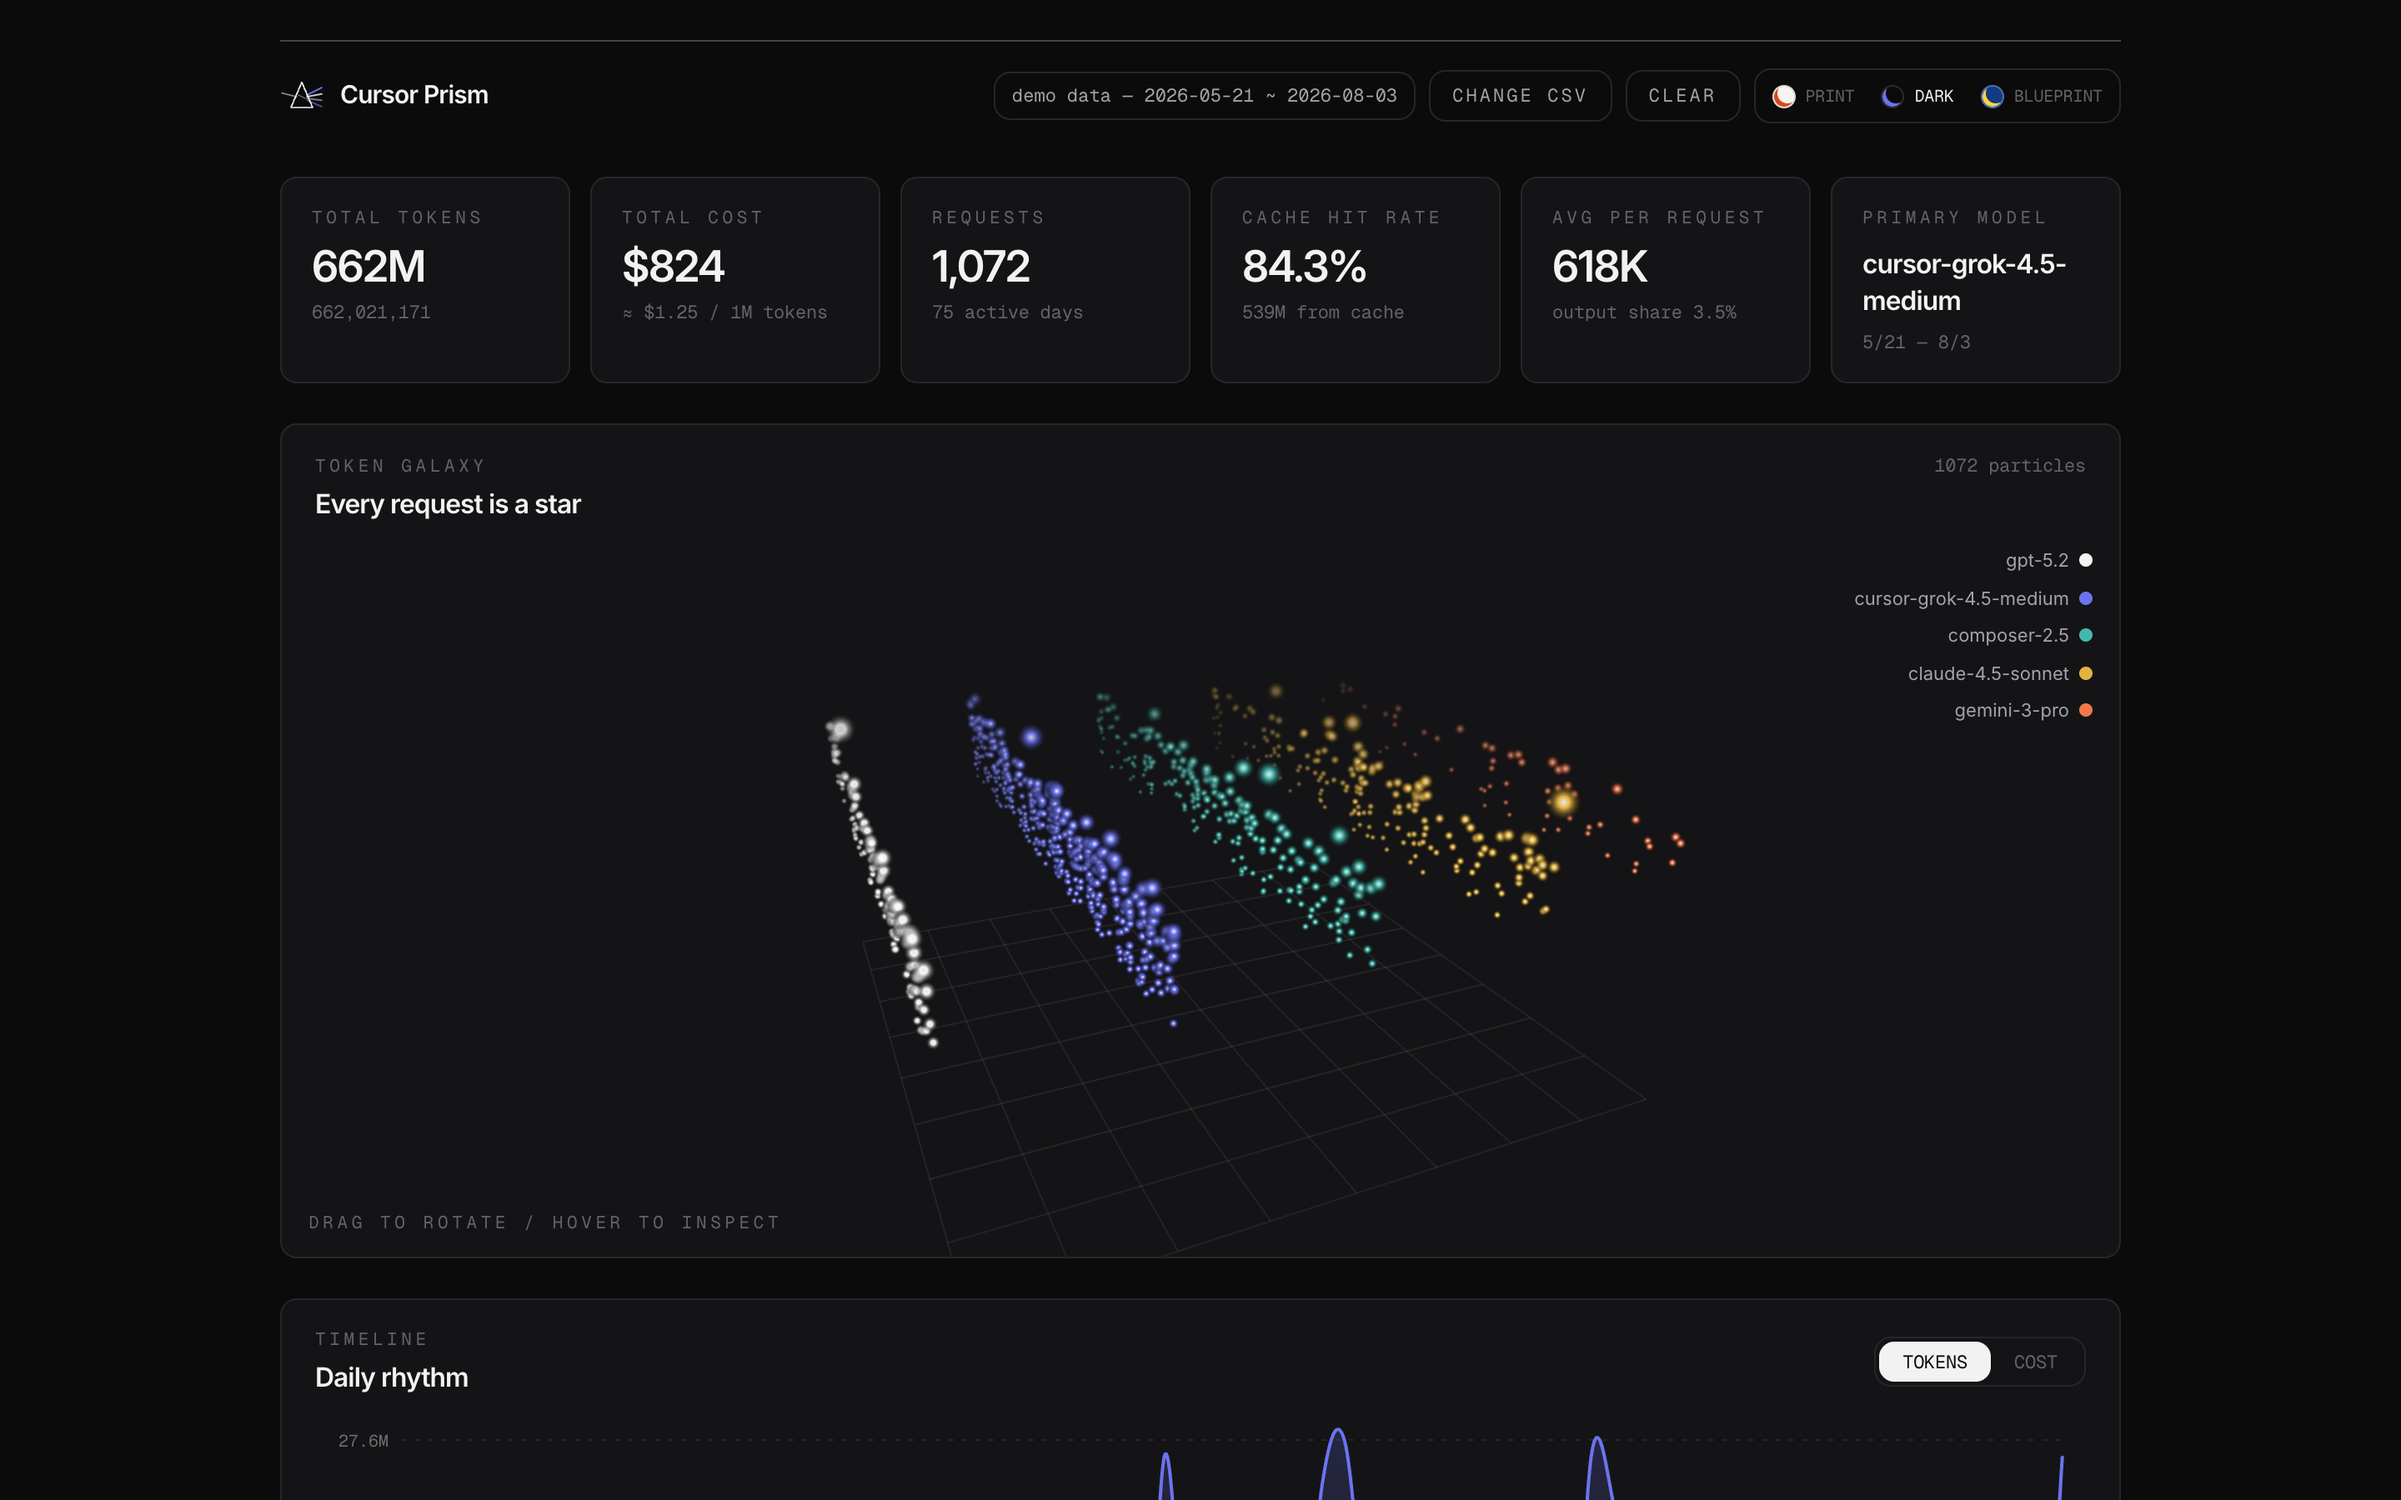
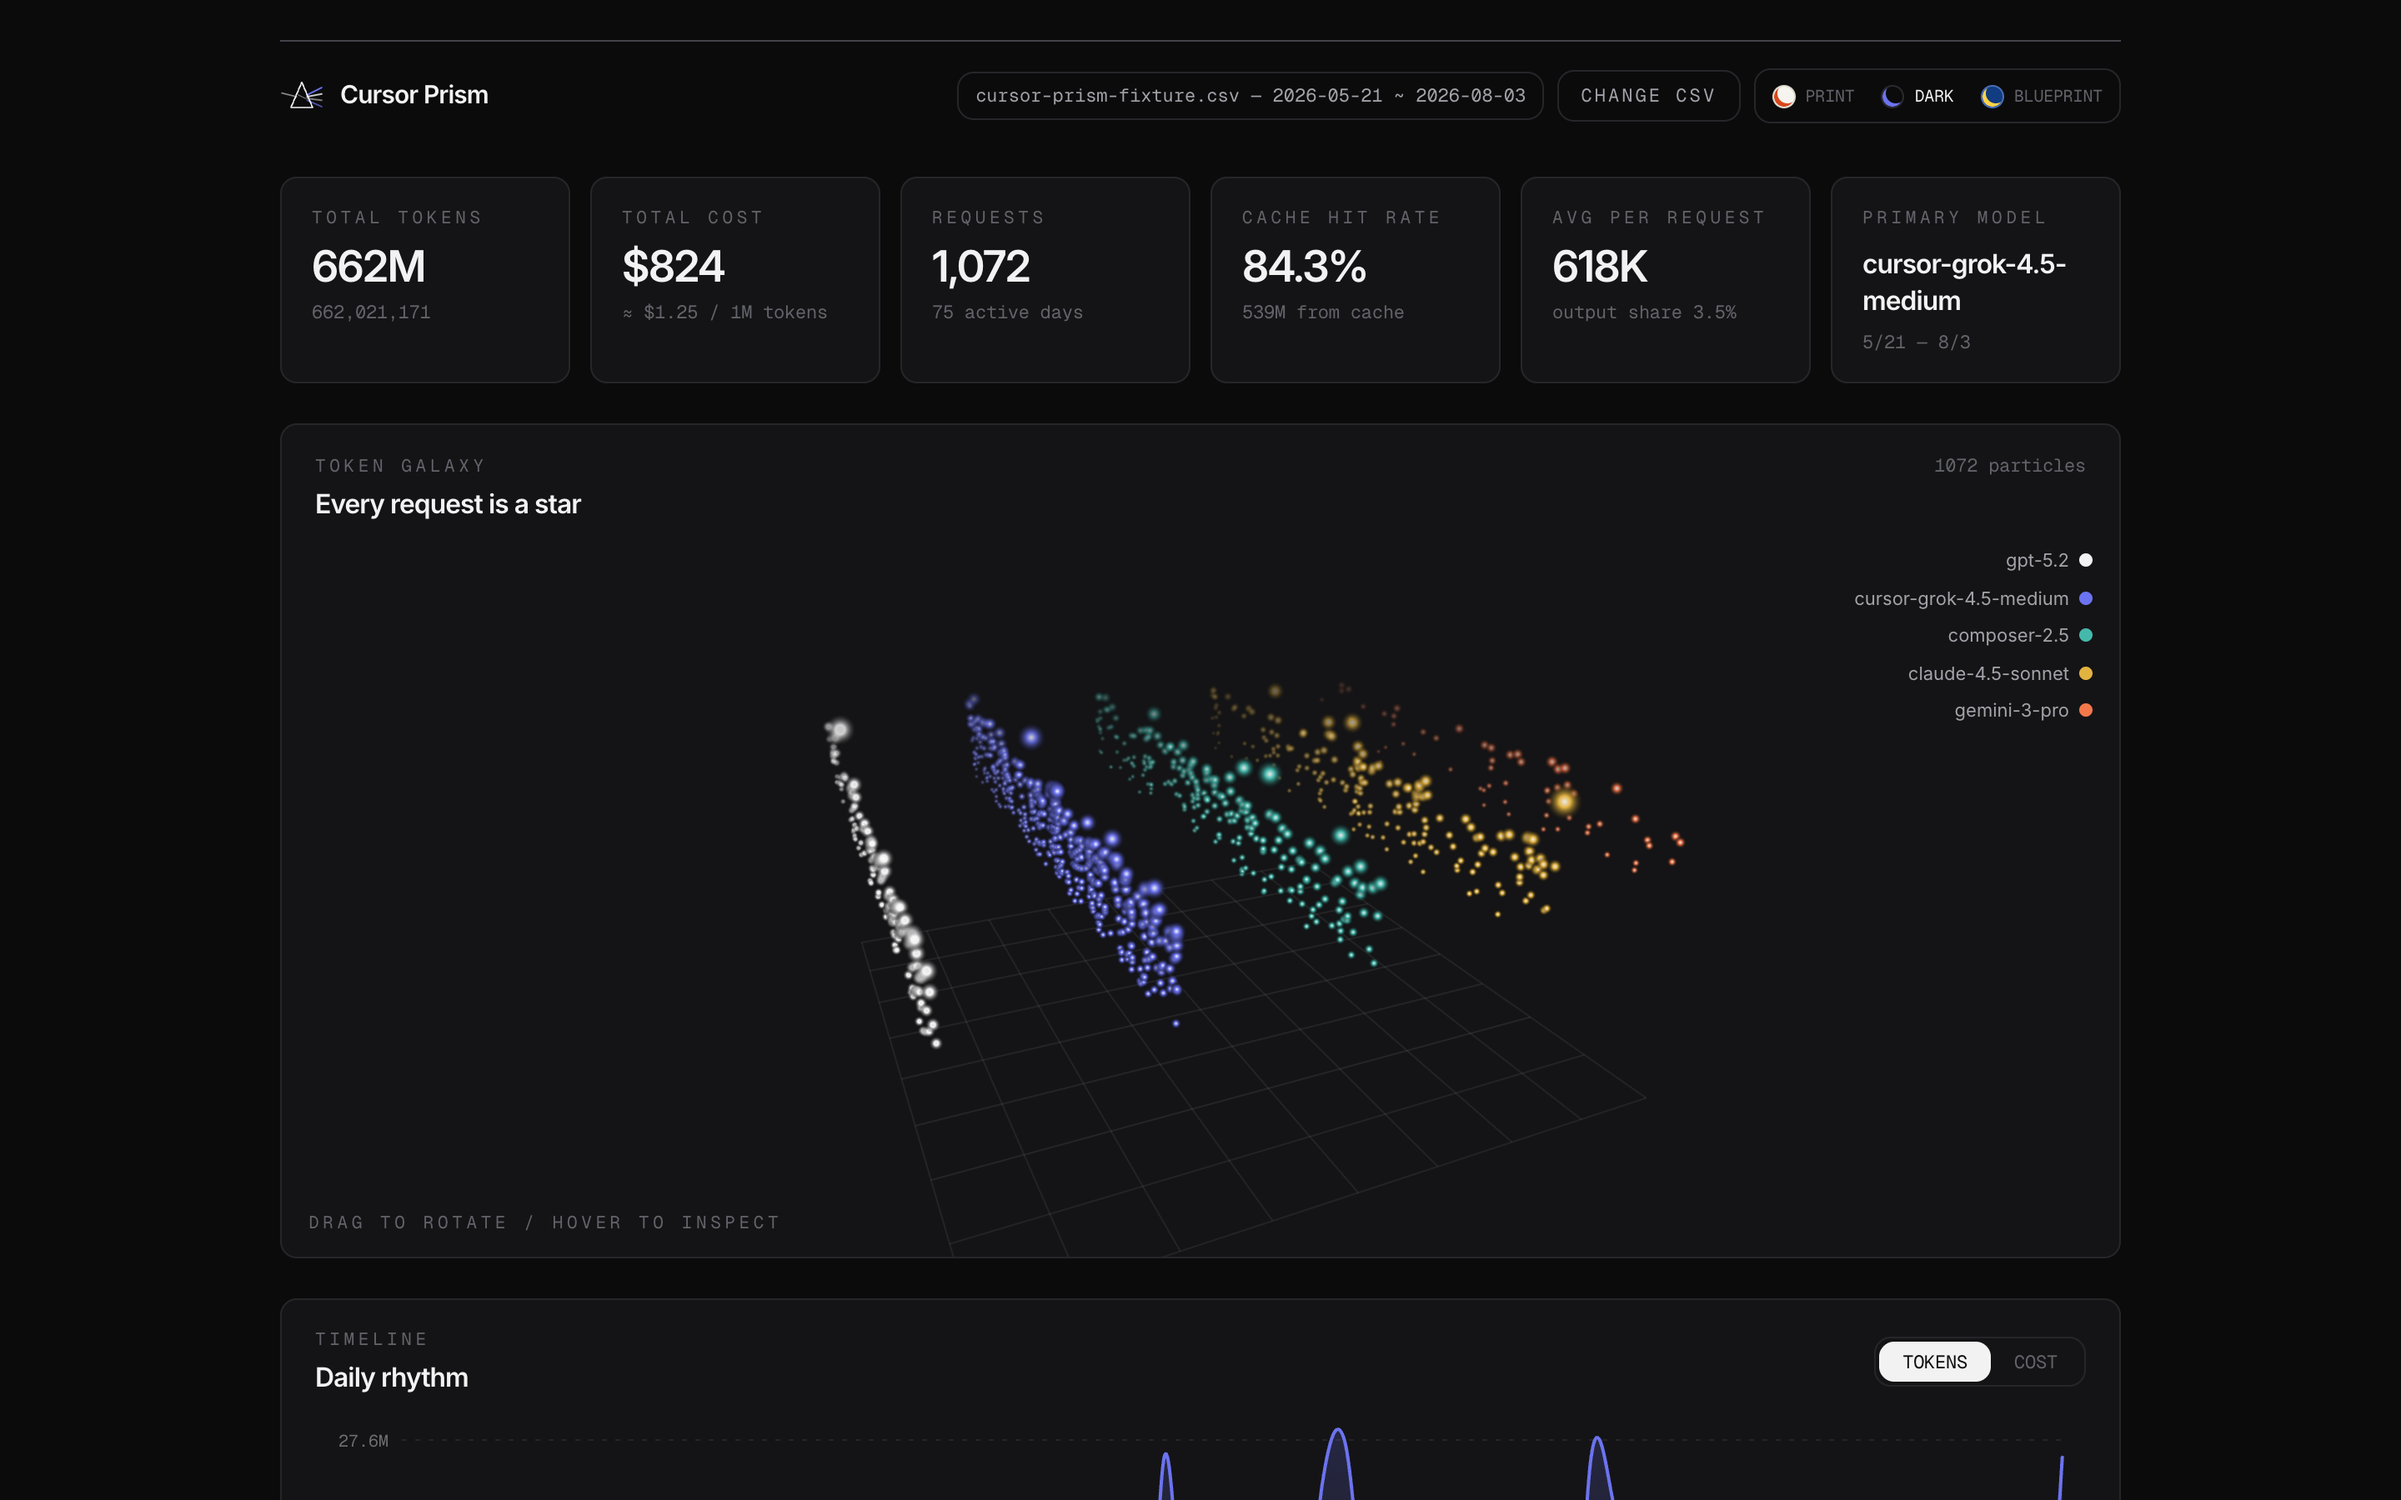
docs: sync README and screenshots with the in-memory model

diff --git a/README.md b/README.md
@@ -4,7 +4,7 @@
 
 The Cursor dashboard hands you a plain table. **Cursor Prism** turns your exported usage CSV into an observatory: trends, models, cache economics, activity heat, cost concentration — plus a 3D token galaxy you can grab and spin.
 
-**100% local parsing** — your CSV never leaves the browser (`FileReader` + `sessionStorage`). Nothing is uploaded, tracked, or stored server-side. There is no server side.
+**100% local parsing** — your CSV never leaves the browser (`FileReader`, in-memory only). Nothing is uploaded, tracked, persisted, or stored server-side. There is no server side.
 
 ![Cursor Prism dashboard — Print theme](docs/screenshots/print-dashboard.png)
 
@@ -39,7 +39,7 @@ Then:
 
 1. **Export** — open [cursor.com/dashboard](https://cursor.com/dashboard) → Usage → **Export CSV**
 2. **Drop** — drag the CSV onto the landing page (or click to browse)
-3. **Explore** — no CSV yet? Hit **Load demo data** to tour the dashboard with synthesized data
+3. **Explore** — six lenses on where your tokens actually go
 
 ## Tech stack
 
@@ -57,11 +57,10 @@ src/
 │   ├── csv.ts              #   CSV parsing (quotes / escapes / BOM) and types
 │   ├── analytics.ts        #   Aggregations: trends, distribution, heat,
 │   │                       #   concentration, auto insights
-│   ├── demo-data.ts        #   Seeded demo-data generator (reproducible)
 │   ├── theme.tsx           #   Theme tokens, provider, View-Transition switching
 │   ├── colors.ts           #   Stable model → palette-slot mapping
 │   ├── format.ts           #   Number / timestamp formatting
-│   └── store.ts            #   Global store + sessionStorage persistence
+│   └── store.ts            #   Global in-memory store (no persistence)
 ├── components/
 │   ├── charts/             # Hand-rolled visuals: TimelineChart / ModelDonut /
 │   │                       #   CompositionBars / UsageHeatmap / TopRequests / Galaxy (3D)
@@ -71,7 +70,7 @@ src/
 │   ├── UploadZone.tsx      # Drag & drop upload
 │   └── Logo.tsx            # currentColor-driven prism mark
 └── routes/
-    ├── index.tsx           # Landing: upload + demo-data entry
+    ├── index.tsx           # Landing: CSV upload
     └── dashboard.tsx       # The observatory
 ```
 
@@ -88,7 +87,7 @@ pnpm deploy       # Build & deploy to Cloudflare Workers
 
 ## Privacy
 
-Cursor Prism has no backend, no database, and no analytics. Your CSV lives only in browser memory and `sessionStorage` — hit **Clear** or close the tab and it's gone. The source is right here; audit away.
+Cursor Prism has no backend, no database, and no analytics. Your CSV lives only in browser memory — navigate away or close the tab and it's gone. The only thing ever persisted is your theme choice (`localStorage`), never your data. The source is right here; audit away.
 
 ## License
 
